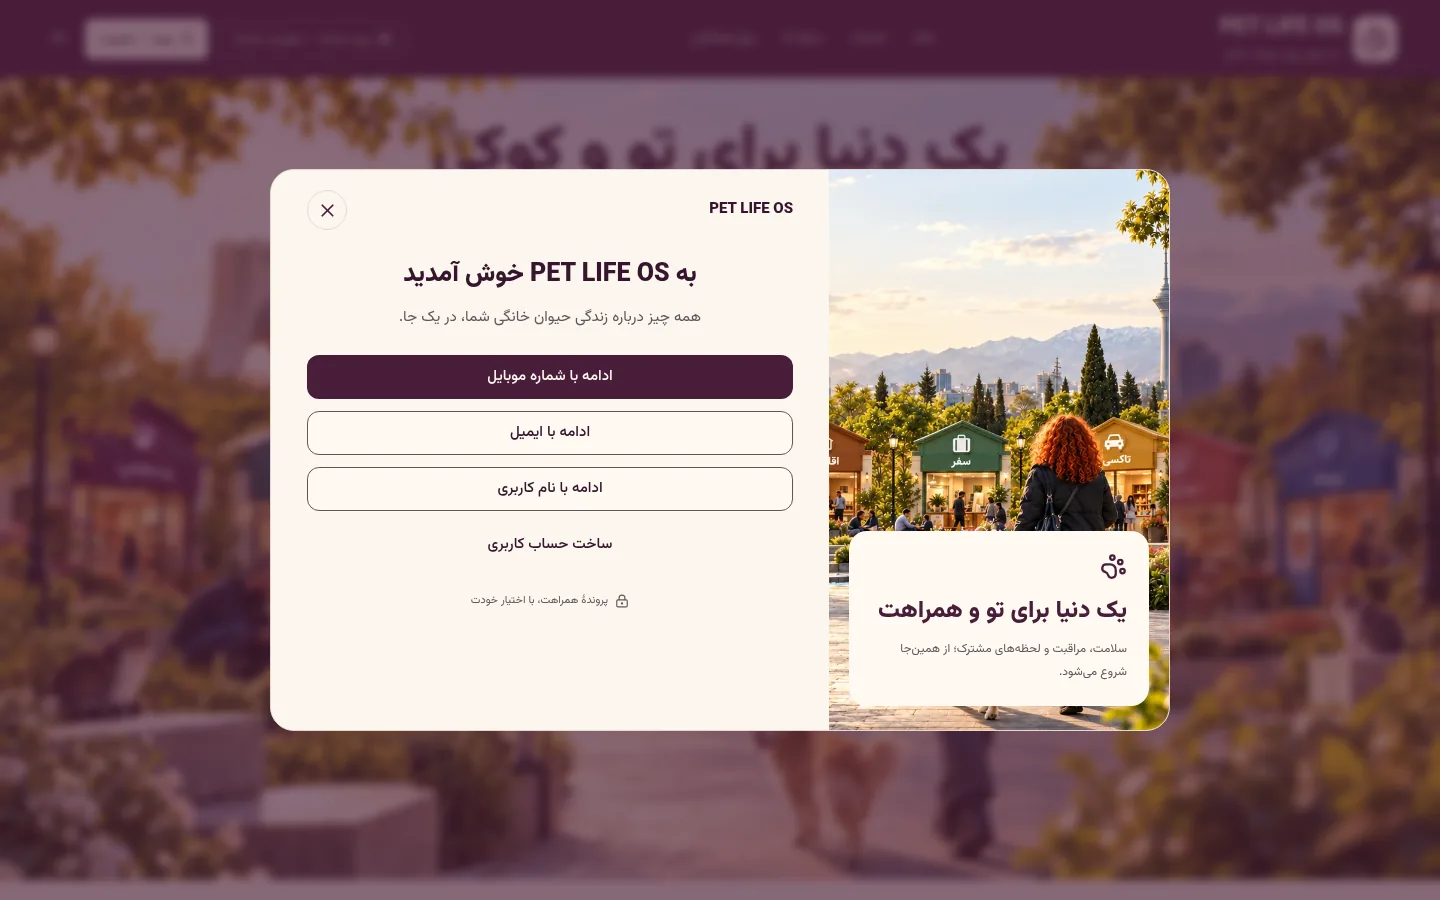
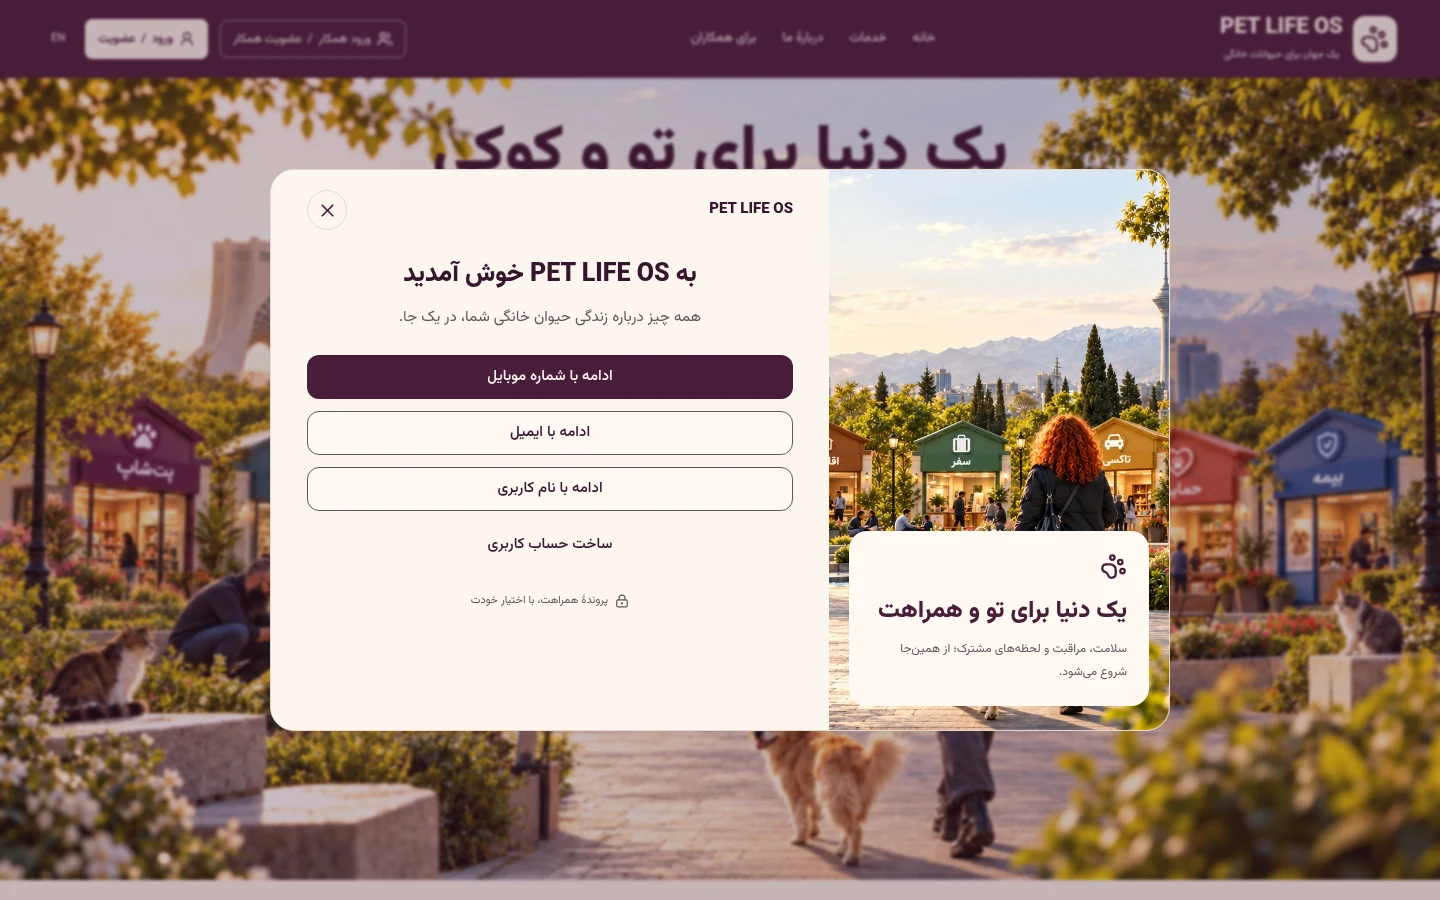
fix(web): keep park hero visible behind auth modal

diff --git a/apps/web/features/auth/park-auth.css b/apps/web/features/auth/park-auth.css
@@ -6,7 +6,7 @@
   color:var(--campaign-ink); color-scheme:light;
 }
 .park-auth { width:min(900px,calc(100% - 40px)); max-width:900px; max-height:calc(100dvh - 40px); padding:0; margin:auto; border:1px solid var(--campaign-line); border-radius:24px; overflow-y:auto; background:var(--campaign-cream); }
-.park-auth::backdrop { background:color-mix(in srgb,var(--campaign-plum) 65%,transparent); backdrop-filter:blur(5px); }
+.park-auth::backdrop { background:color-mix(in srgb,var(--campaign-plum) 30%,transparent); backdrop-filter:blur(1.5px); }
 .park-auth__grid { display:grid; grid-template-columns:340px minmax(0,1fr); min-height:560px; }
 .park-auth__scene { position:relative; min-height:560px; overflow:hidden; background:var(--campaign-teal-tint); }
 .park-auth__scene>img { object-fit:cover; object-position:65% 100%; }
